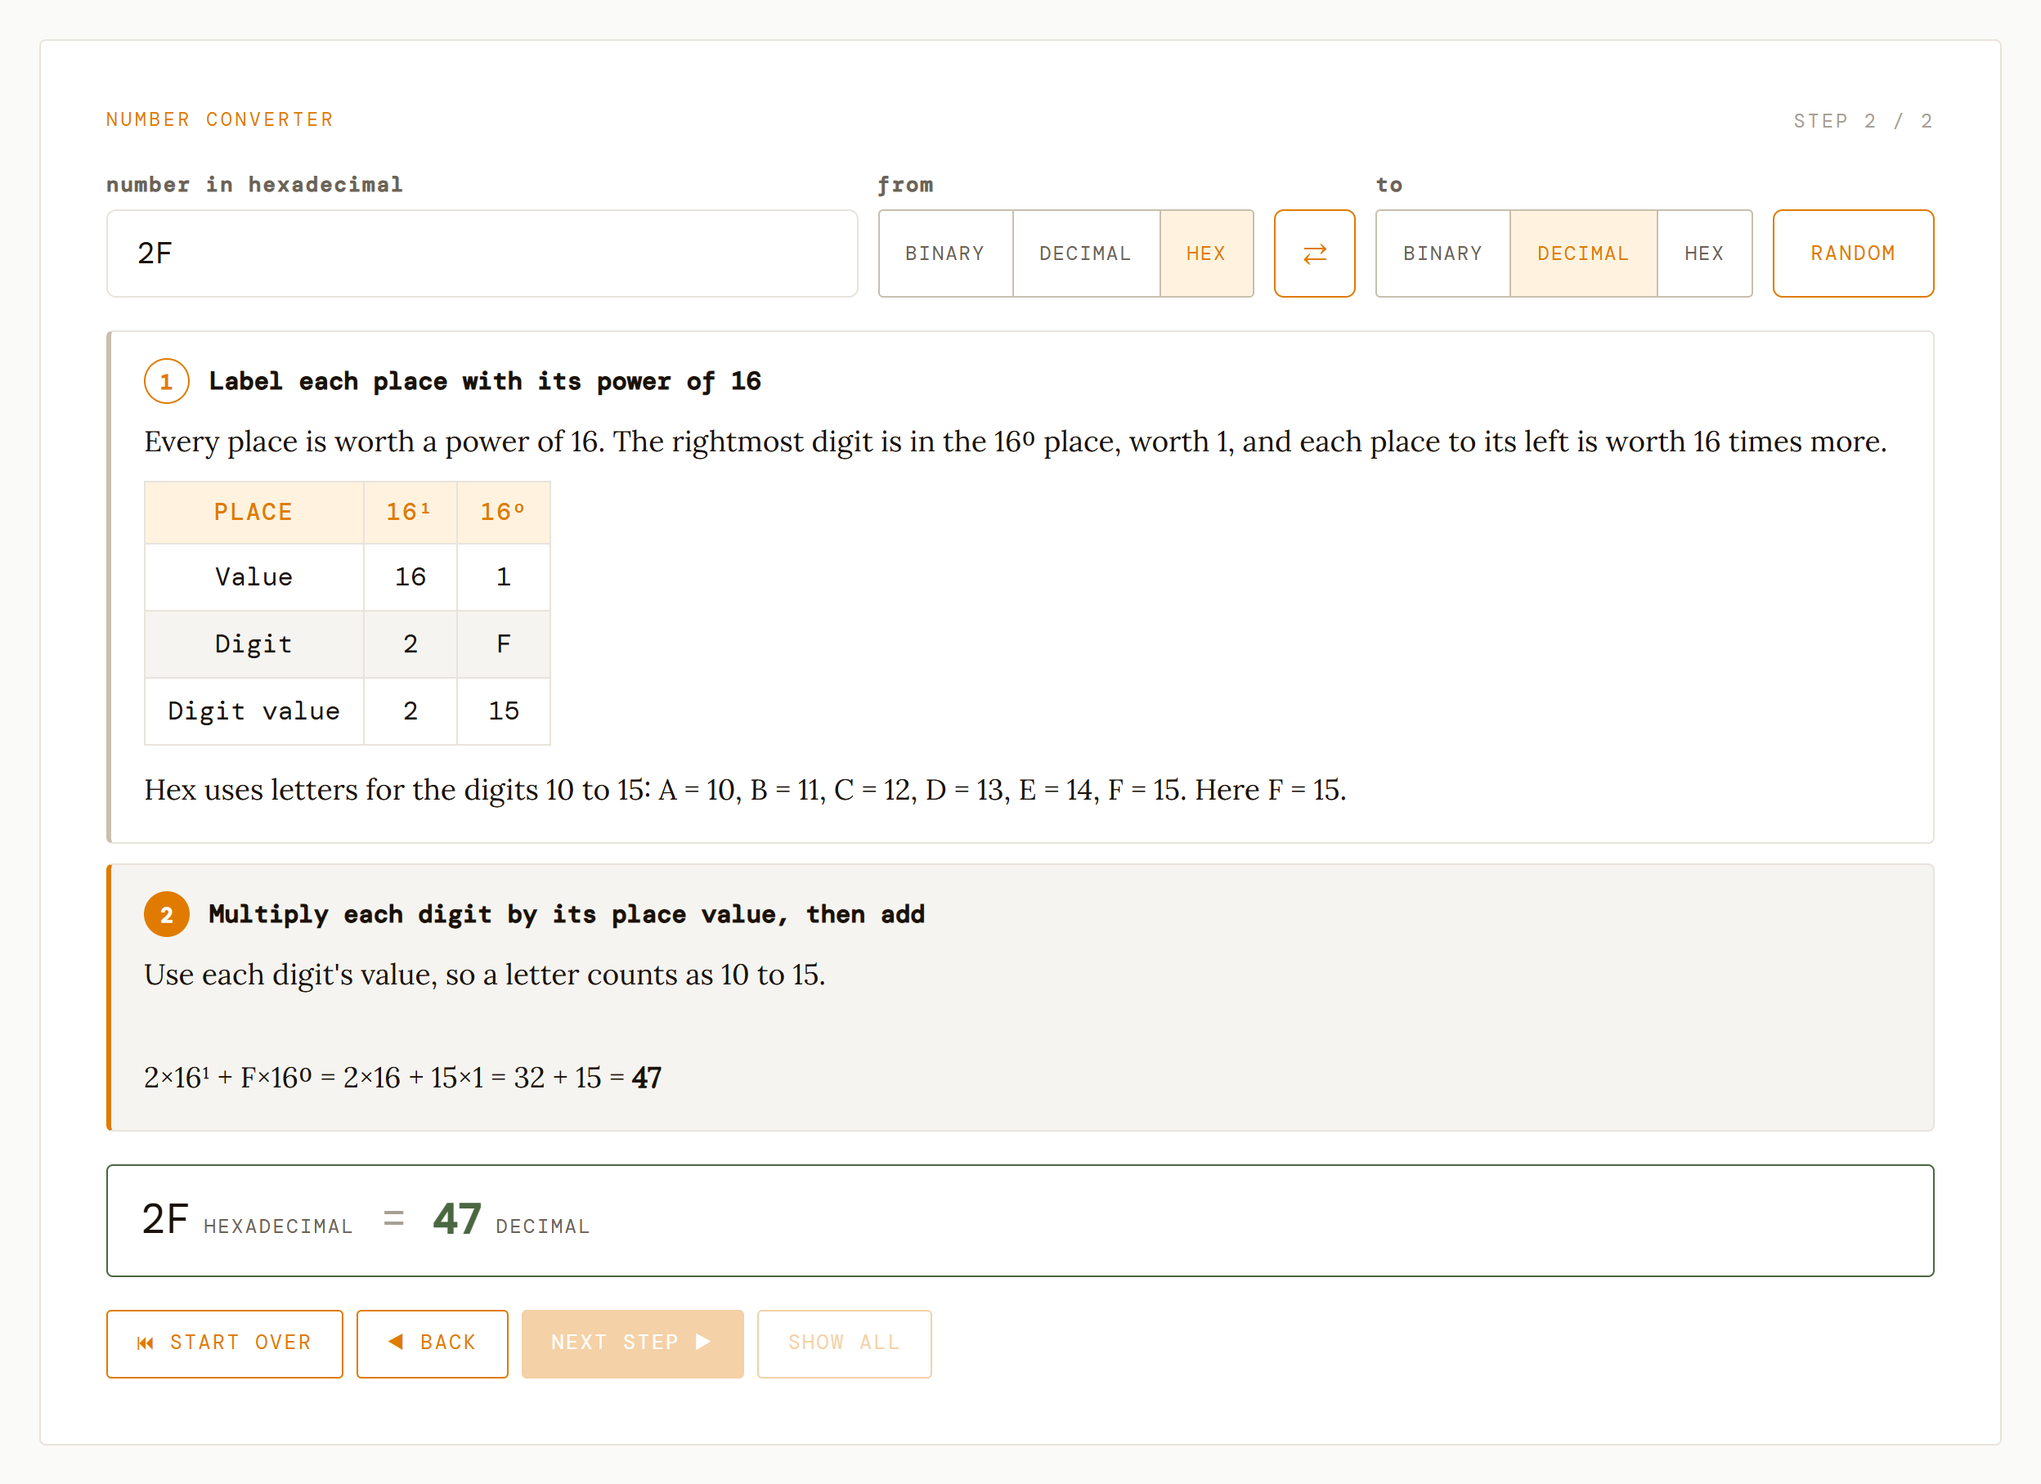
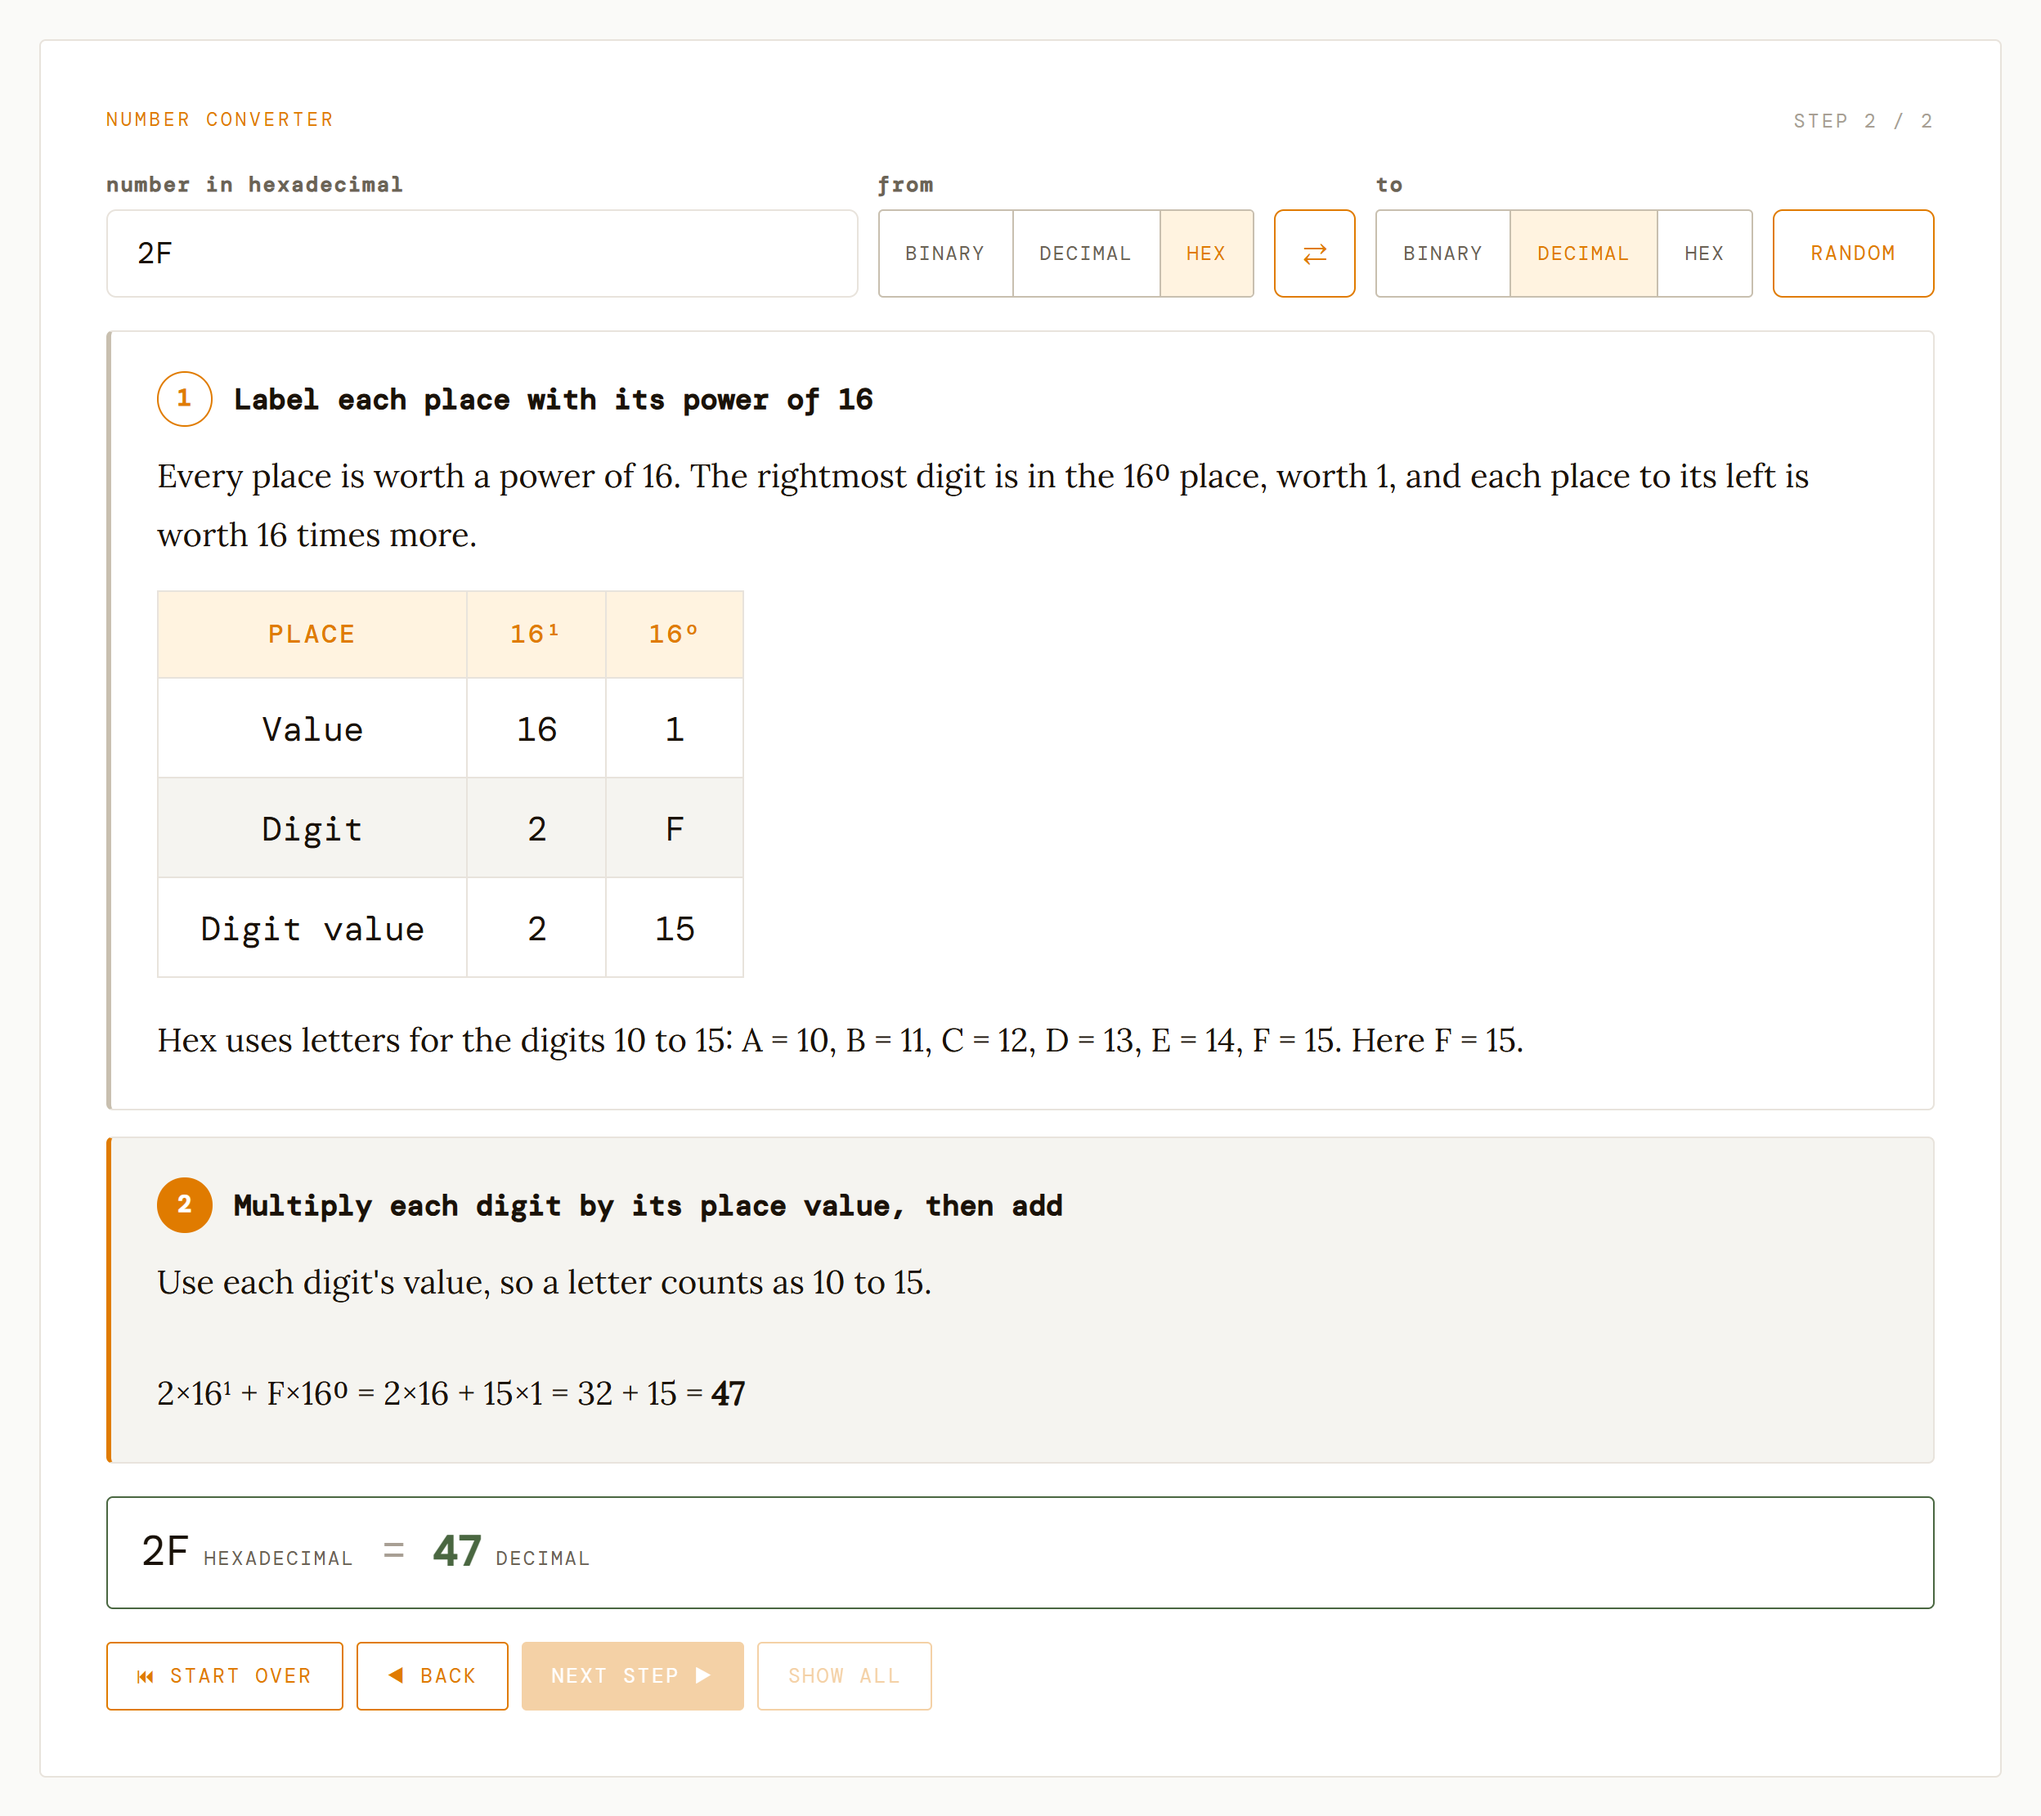
Show the converter first on its note and enlarge its steps
The number converter note now shows the converter above its how-to
section. Step text, titles, and tables are larger and better spaced,
and on phones the step tables keep each cell on one line and scroll
sideways instead of wrapping.

diff --git a/src/styles/converter.css b/src/styles/converter.css
@@ -24,14 +24,14 @@
     padding: 0;
     display: flex;
     flex-direction: column;
-    gap: 0.75rem;
+    gap: 1rem;
   }
 
   .conv-step {
     border: 1.5px solid var(--color-border);
     border-left: 3px solid var(--color-border-strong);
     border-radius: 4px;
-    padding: 1rem 1.25rem 0.5rem;
+    padding: 1.5rem 1.75rem 1rem;
     min-width: 0;
     transition: border-color 0.2s, background-color 0.2s;
   }
@@ -43,12 +43,12 @@
   .conv-step-title {
     display: flex;
     align-items: center;
-    gap: 0.75rem;
+    gap: 0.85rem;
     font-family: var(--font-mono);
-    font-size: 0.95rem;
+    font-size: 1.1rem;
     font-weight: 600;
     color: var(--color-ink);
-    margin: 0 0 0.5rem;
+    margin: 0 0 0.75rem;
   }
 
   .conv-step-number {
@@ -56,10 +56,10 @@
     display: inline-flex;
     align-items: center;
     justify-content: center;
-    width: 1.75rem;
-    height: 1.75rem;
+    width: 2.1rem;
+    height: 2.1rem;
     border-radius: 50%;
-    font-size: 0.8rem;
+    font-size: 0.9rem;
     color: var(--color-orange);
     border: 1.5px solid var(--color-orange);
   }
@@ -68,10 +68,12 @@
     background-color: var(--color-orange);
   }
 
-  .conv-step-body .content-block-body { font-size: clamp(0.95rem, 2vw, 1.1rem); line-height: 1.75; }
-  .conv-step-body .content-table      { font-size: 1rem; min-width: 0; }
+  .conv-step-body .content-block-body { font-size: clamp(1.05rem, 2.3vw, 1.25rem); line-height: 1.8; }
+  .conv-step-body .content-table-wrap { margin: 1rem 0 1.25rem; }
+  .conv-step-body .content-table      { font-size: 1.3rem; min-width: 0; }
   .conv-step-body .content-table th,
-  .conv-step-body .content-table td   { padding: 0.5rem 0.85rem; }
+  .conv-step-body .content-table td   { padding: 0.9rem 1.6rem; }
+  .conv-step-body .content-table th   { font-size: 1rem; }
 
   .conv-answer {
     display: flex;

diff --git a/src/pages/notes/NotesDetail.tsx b/src/pages/notes/NotesDetail.tsx
@@ -19,6 +19,10 @@ function NotesDetail() {
     return <NotFoundState title="Note not found" backTo="/notes" backLabel="← Back to notes" />;
   }
 
+  const converter = entry.converter && (
+    <BaseConverter key={entry.id} from={entry.converter.from} to={entry.converter.to} value={entry.converter.value} />
+  );
+
   return (
     <DetailPageLayout
       crumbs={[
@@ -43,6 +47,7 @@ function NotesDetail() {
       {entry.visualizer && implementation && (
         <AlgorithmVisualizer key={entry.id} algorithm={entry.visualizer} code={implementation.content} />
       )}
+      {entry.converter?.above && converter}
       {entry.sections.map((section, i) =>
         section.type === "text" ? (
           <ContentBlock key={i} label={section.label}>
@@ -53,7 +58,7 @@ function NotesDetail() {
           <JavaCodeBlock key={`${entry.id}-${i}`} label={section.label} code={section.content} />
         )
       )}
-      {entry.converter && <BaseConverter key={entry.id} {...entry.converter} />}
+      {entry.converter && !entry.converter.above && converter}
     </DetailPageLayout>
   );
 }

diff --git a/src/styles/mobile.css b/src/styles/mobile.css
@@ -98,9 +98,12 @@
   .conv-bases > *      { flex: 1; text-align: center; padding-left: 0.4rem; padding-right: 0.4rem; }
   .conv-swap           { margin: 0 auto; padding: 0 1.75rem; }
   .conv-random         { flex: 1 1 100%; }
-  .conv-step           { padding: 0.85rem 0.75rem 0.35rem; }
+  .conv-step           { padding: 1rem 0.75rem 0.5rem; }
+  .conv-step-title     { font-size: 0.95rem; }
+  .conv-step-body .content-table    { font-size: 1rem; }
+  .conv-step-body .content-table th { font-size: 0.8rem; }
   .conv-step-body .content-table th,
-  .conv-step-body .content-table td { padding: 0.45rem 0.35rem; }
+  .conv-step-body .content-table td { padding: 0.55rem 0.6rem; white-space: nowrap; }
 
   .copy-btn { width: 100%; text-align: center; }
   .code-actions { width: 100%; }

diff --git a/src/data/notes/numberSystems.ts b/src/data/notes/numberSystems.ts
@@ -75,7 +75,7 @@ A quick way to remember the letters: A is 10, and each letter after it is one mo
       id:    "converter",
       title: "number converter",
       tags:  ["Binary", "Decimal", "Hexadecimal", "Practice"],
-      converter: { from: 10, to: 2, value: "246" },
+      converter: { from: 10, to: 2, value: "246", above: true },
       sections: [
         {
           type:    "text",

diff --git a/src/components/notes/BaseConverter.tsx b/src/components/notes/BaseConverter.tsx
@@ -5,7 +5,7 @@ import { cx } from "../../utils/ui";
 import { ContentBlock } from "../ui/ContentBlock";
 import { PromptBody } from "../ui/PromptBody";
 
-type BaseConverterProps = ConverterPreset;
+type BaseConverterProps = Omit<ConverterPreset, "above">;
 
 type BasePickerProps = {
   label: string;

diff --git a/src/types/index.ts b/src/types/index.ts
@@ -36,6 +36,8 @@ export type ConverterPreset = {
   from:  NumberBase;
   to:    NumberBase;
   value: string;
+  // shown above the note's sections instead of below them
+  above?: boolean;
 };
 
 export type NoteEntry = {

diff --git a/ARCHITECTURE.md b/ARCHITECTURE.md
@@ -132,7 +132,7 @@ A note entry with `visualizer` set (`"binarysearch"`, `"linearsearch"`, `"bubble
 
 ## Number converter
 
-A note entry with `converter` set gets a **Number converter** block below its sections. It converts whole numbers from 0 to 65535 between binary, decimal, and hexadecimal and explains the work one step at a time. The number systems notes use it on every entry.
+A note entry with `converter` set gets a **Number converter** block below its sections, or above them with `above: true`. It converts whole numbers from 0 to 65535 between binary, decimal, and hexadecimal and explains the work one step at a time. The number systems notes use it on every entry.
 
 - `utils/baseConversion.ts` validates the input and records the steps. Each step body is content markup, rendered by `PromptBody`, written the way the exam solutions show the work: a place value table for binary or hex to decimal, subtracting powers of 2 for decimal to binary, dividing by 16 for decimal to hex, and four-bit groups between binary and hex.
 - A conversion note's `converter` opens on the note's own worked example. `baseConversion.test.ts` fails if a table the converter draws does not appear in the note, so **editing a worked example means updating its `converter` value, and changing a step's table means updating the notes**. The same test checks the converter against every published exam answer.
